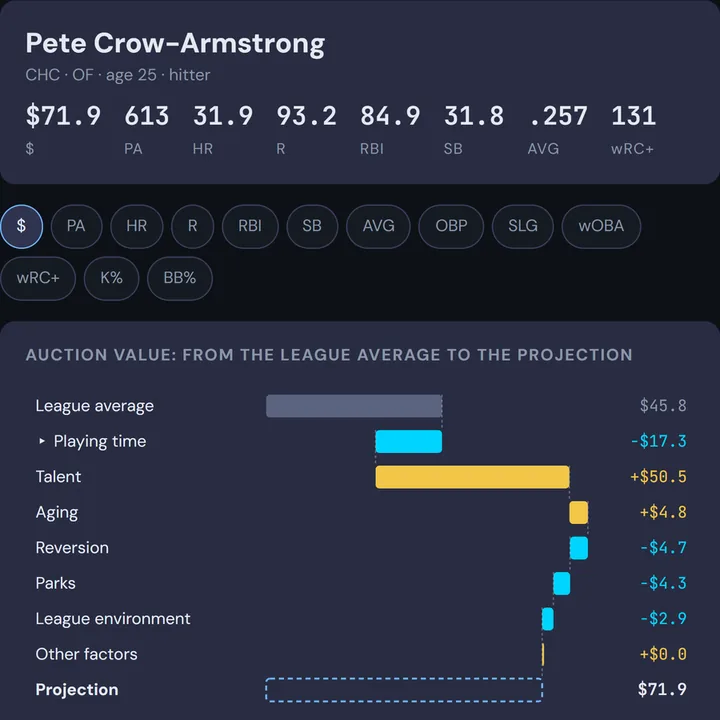
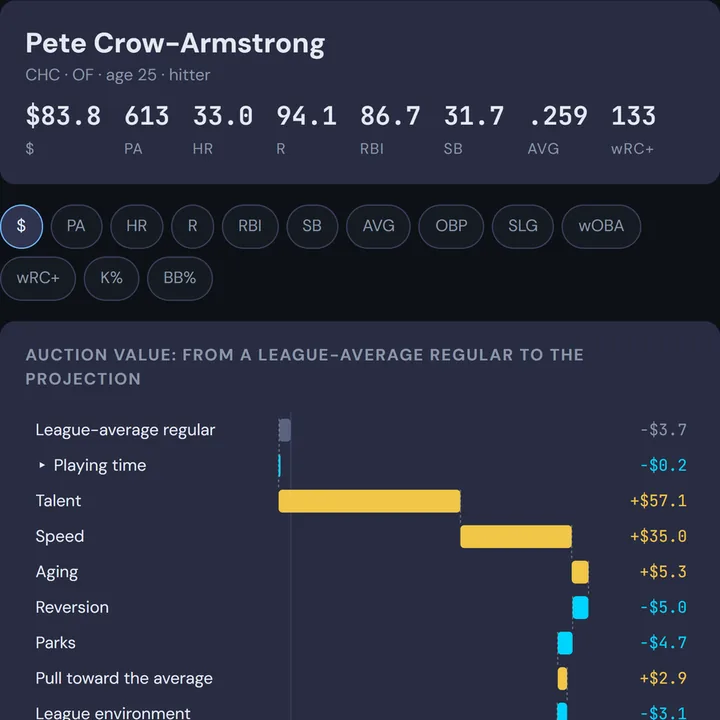
Homepage: the Projection Drilldown tile again, on the regular baseline and the speed factor (Crow-Armstrong $83.8); tile ?v=3

diff --git a/index.html b/index.html
@@ -188,7 +188,7 @@
 								</article>
 									<article class="style5">
 									<span class="image">
-										<img src="images/tile-projection-drilldown.webp?v=2" srcset="images/tile-projection-drilldown-720.webp?v=2 720w, images/tile-projection-drilldown.webp?v=2 900w" sizes="(max-width: 480px) 100vw, (max-width: 980px) 50vw, 380px" width="900" height="900" alt="Pete Crow-Armstrong's 2027 auction value, from a league-average player to $71.9, one factor at a time" />
+										<img src="images/tile-projection-drilldown.webp?v=3" srcset="images/tile-projection-drilldown-720.webp?v=3 720w, images/tile-projection-drilldown.webp?v=3 900w" sizes="(max-width: 480px) 100vw, (max-width: 980px) 50vw, 380px" width="900" height="900" alt="Pete Crow-Armstrong's 2027 auction value, from a league-average regular to $83.8, one factor at a time" />
 									</span>
 									<a href="/projection-drilldown/">
 										<h2>Projection Drilldown</h2>
